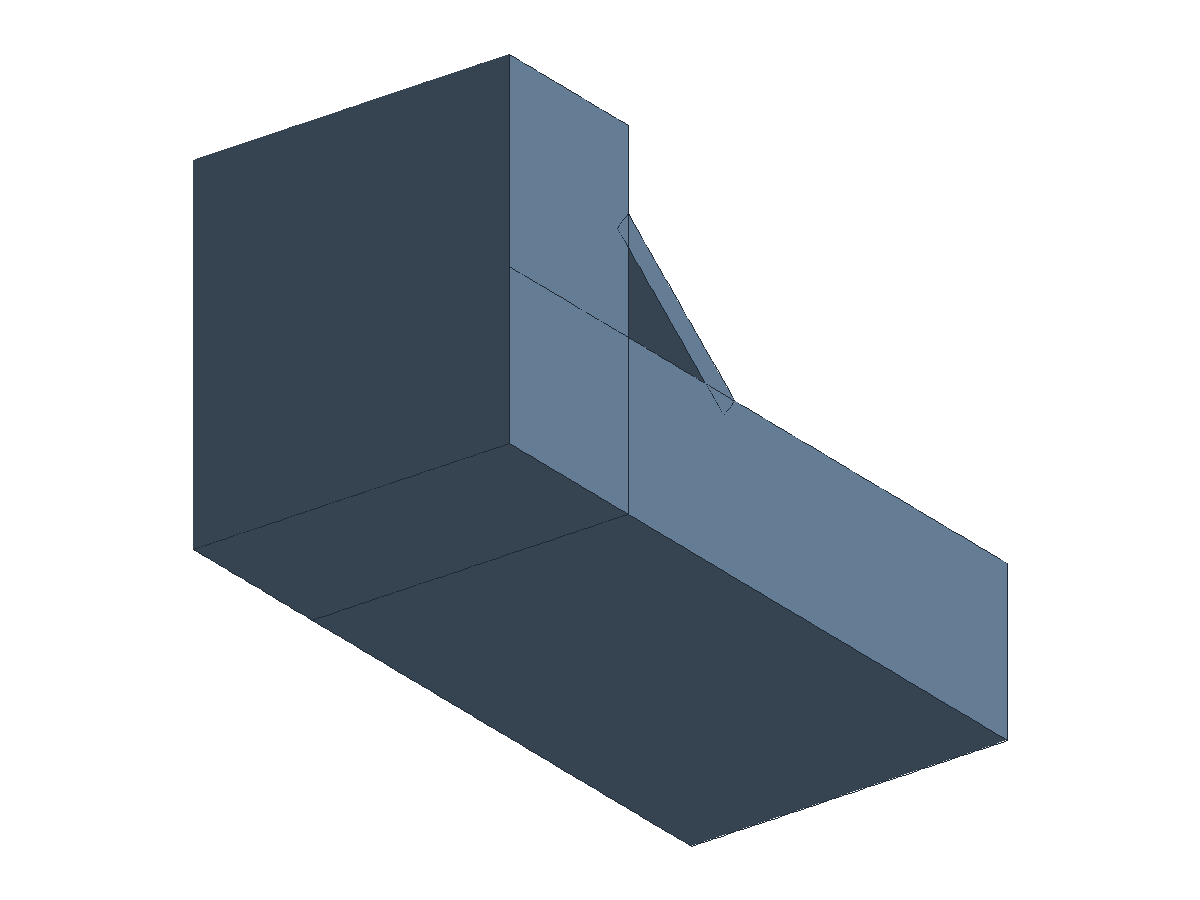
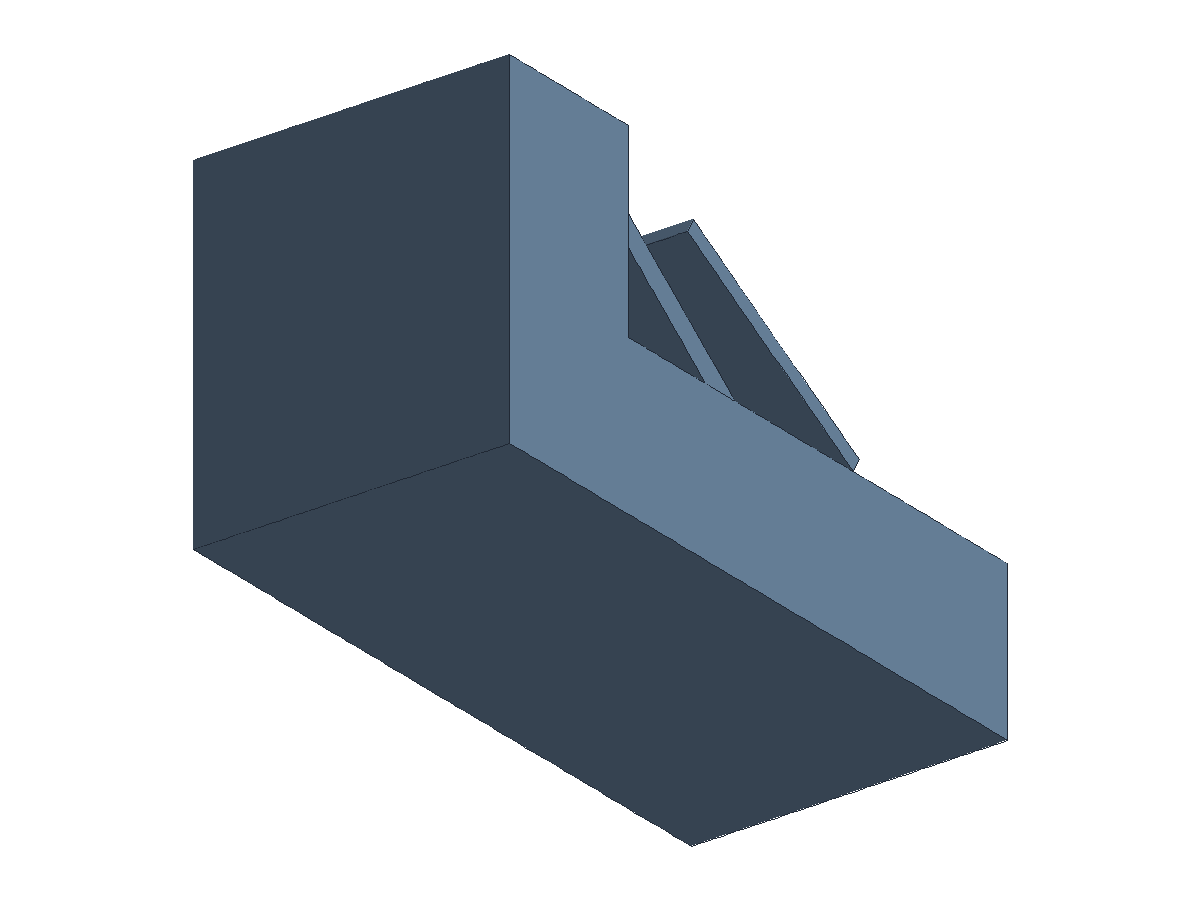
Tighten surface checks and fix rib-web example

Changed region(s): [[0.5242, 0.2489, 0.74, 0.5289]]

diff --git a/src/tests/occt.surface.e2e.test.ts b/src/tests/occt.surface.e2e.test.ts
@@ -3,11 +3,51 @@ import { dsl } from "../dsl.js";
 import { buildPart } from "../executor.js";
 import {
   assertValidShape,
+  countEdges,
   countFaces,
   countSolids,
   getBackendContext,
   runTests,
 } from "./occt_test_utils.js";
+
+function measureSurfaceArea(occt: any, shape: any): number {
+  const props = new occt.GProp_GProps_1();
+  occt.BRepGProp.SurfaceProperties_1(shape, props, true, true);
+  const area = typeof props.Mass === "function" ? props.Mass() : Number.NaN;
+  if (!Number.isFinite(area)) {
+    throw new Error(`Expected finite surface area, got ${String(area)}`);
+  }
+  return area;
+}
+
+function targetSurfaceTypes(
+  selections: Array<{ id: string; kind: string; meta: Record<string, unknown> }>,
+  ownerKey: string
+): Record<string, number> {
+  const faceSelections = selections.filter(
+    (selection) => selection.kind === "face" && selection.meta["ownerKey"] === ownerKey
+  );
+  const uniqueSelections = new Map(faceSelections.map((selection) => [selection.id, selection]));
+  const counts: Record<string, number> = {};
+  for (const selection of uniqueSelections.values()) {
+    const surfaceType =
+      typeof selection.meta["surfaceType"] === "string"
+        ? (selection.meta["surfaceType"] as string)
+        : "unknown";
+    counts[surfaceType] = (counts[surfaceType] ?? 0) + 1;
+  }
+  return counts;
+}
+
+function polylineLength(points: Array<[number, number, number]>): number {
+  let length = 0;
+  for (let index = 1; index < points.length; index += 1) {
+    const start = points[index - 1] as [number, number, number];
+    const end = points[index] as [number, number, number];
+    length += Math.hypot(end[0] - start[0], end[1] - start[1], end[2] - start[2]);
+  }
+  return length;
+}
 
 const tests = [
   {
@@ -76,7 +116,14 @@ const tests = [
       assert.ok(shape, "missing shape metadata");
       assertValidShape(occt, shape, "extrude surface");
       assert.equal(countSolids(occt, shape), 0);
-      assert.ok(countFaces(occt, shape) > 0, "expected surface to have faces");
+      assert.equal(countFaces(occt, shape), 1, "expected one ruled face");
+      assert.equal(countEdges(occt, shape), 4, "expected rectangular boundary edges");
+      const area = measureSurfaceArea(occt, shape);
+      assert.ok(Math.abs(area - 300) < 1e-6, `expected area 300, got ${area}`);
+      assert.deepEqual(
+        targetSurfaceTypes(result.final.selections as any[], "surface:wall"),
+        { plane: 1 }
+      );
     },
   },
   {
@@ -94,11 +141,12 @@ const tests = [
         ],
         { entities: [line] }
       );
-      const path = dsl.pathPolyline([
+      const pathPoints: Array<[number, number, number]> = [
         [0, 0, 0],
         [0, 0, 20],
         [15, 0, 30],
-      ]);
+      ];
+      const path = dsl.pathPolyline(pathPoints);
       const part = dsl.part("sweep-surface", [
         sketch,
         dsl.sweep(
@@ -119,7 +167,18 @@ const tests = [
       assert.ok(shape, "missing shape metadata");
       assertValidShape(occt, shape, "sweep surface");
       assert.equal(countSolids(occt, shape), 0);
-      assert.ok(countFaces(occt, shape) > 0, "expected surface to have faces");
+      assert.equal(countFaces(occt, shape), 3, "expected one planar patch per path segment");
+      assert.equal(countEdges(occt, shape), 13, "expected open sweep sheet boundary topology");
+      const expectedArea = 16 * polylineLength(pathPoints);
+      const area = measureSurfaceArea(occt, shape);
+      assert.ok(
+        Math.abs(area - expectedArea) < 4,
+        `expected sweep area near ${expectedArea}, got ${area}`
+      );
+      assert.deepEqual(
+        targetSurfaceTypes(result.final.selections as any[], "surface:main"),
+        { plane: 3 }
+      );
     },
   },
   {

diff --git a/src/tests/occt.rib_web.e2e.probe.ts b/src/tests/occt.rib_web.e2e.probe.ts
@@ -1,6 +1,7 @@
 import assert from "node:assert/strict";
 import { dsl } from "../dsl.js";
 import { buildPart } from "../executor.js";
+import { dslFeatureExamples } from "../examples/dsl_feature_examples.js";
 import {
   assertPositiveVolume,
   assertValidShape,
@@ -37,6 +38,45 @@ function solidVolume(occt: any, shape: any): number {
 }
 
 const tests = [
+  {
+    name: "occt parity probe: rib/web example main output includes both staged features",
+    fn: async () => {
+      const { backend, occt } = await getBackendContext();
+      const example = dslFeatureExamples.find((entry) => entry.id === "rib-web");
+      assert.ok(example, "missing rib-web example");
+
+      const result = buildPart(example.part, backend);
+      const support = result.final.outputs.get("body:support");
+      const ribbed = result.final.outputs.get("body:ribbed");
+      const web = result.final.outputs.get("body:web");
+      const main = result.final.outputs.get("body:main");
+      assert.ok(support, "missing support output");
+      assert.ok(ribbed, "missing ribbed output");
+      assert.ok(web, "missing web output");
+      assert.ok(main, "missing main output");
+
+      const supportShape = support.meta["shape"] as any;
+      const ribbedShape = ribbed.meta["shape"] as any;
+      const webShape = web.meta["shape"] as any;
+      const mainShape = main.meta["shape"] as any;
+      assertValidShape(occt, supportShape, "rib/web support");
+      assertValidShape(occt, ribbedShape, "ribbed support");
+      assertValidShape(occt, webShape, "web example body");
+      assertValidShape(occt, mainShape, "rib/web main");
+
+      const supportVolume = solidVolume(occt, supportShape);
+      const ribbedVolume = solidVolume(occt, ribbedShape);
+      const mainVolume = solidVolume(occt, mainShape);
+      assert.ok(
+        ribbedVolume > supportVolume,
+        `expected rib union to add material (${ribbedVolume} <= ${supportVolume})`
+      );
+      assert.ok(
+        mainVolume > ribbedVolume,
+        `expected final union to include web material (${mainVolume} <= ${ribbedVolume})`
+      );
+    },
+  },
   {
     name: "occt parity probe: rib/web produce valid solids from open sketch profiles",
     fn: async () => {

diff --git a/src/examples/dsl_feature_examples.ts b/src/examples/dsl_feature_examples.ts
@@ -493,7 +493,20 @@ export const dslFeatureExamples: DslFeatureExample[] = [
         web("web-1", profileRef("profile:web"), 2, 80, "body:web", ["support-union", "rib-sketch"], {
           side: "oneSided",
         }),
-        booleanOp("union-rib-web", "union", selectorNamed("body:support"), selectorNamed("body:rib"), "body:main"),
+        booleanOp(
+          "union-rib",
+          "union",
+          selectorNamed("body:support"),
+          selectorNamed("body:rib"),
+          "body:ribbed"
+        ),
+        booleanOp(
+          "union-rib-web",
+          "union",
+          selectorNamed("body:ribbed"),
+          selectorNamed("body:web"),
+          "body:main"
+        ),
       ]);
     })(),
     render: {

diff --git a/docs/reference/dsl/examples/features.md b/docs/reference/dsl/examples/features.md
@@ -244,10 +244,17 @@ const examplePart = part("example-rib-web", [
     side: "oneSided",
   }),
   booleanOp(
-    "union-rib-web",
+    "union-rib",
     "union",
     selectorNamed("body:support"),
     selectorNamed("body:rib"),
+    "body:ribbed"
+  ),
+  booleanOp(
+    "union-rib-web",
+    "union",
+    selectorNamed("body:ribbed"),
+    selectorNamed("body:web"),
     "body:main"
   ),
 ]);
